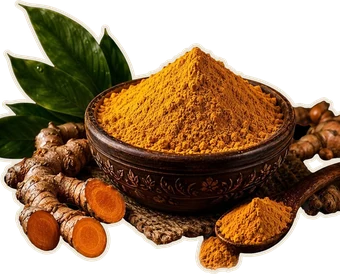
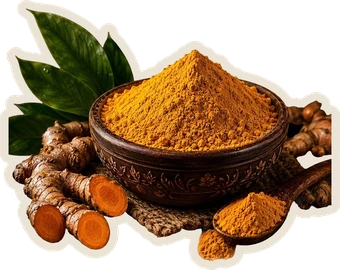
Thicker border wrapping all the way round the Events stickers

diff --git a/index.html b/index.html
@@ -646,7 +646,7 @@ picture{margin-block:clamp(52px,8vw,104px);}
 <p>Join us for an evening of drinks, dinner, and a warm welcome to Mexico City.</p>
 <p>The venue is approximately a 10-minute walk from Andaz. Transportation will be available for older guests.</p></div>
 </div>
-<picture class="stk stk-mendhi" aria-hidden="true"><source type="image/webp" srcset="img/sticker-mendhi-sm.webp 220w, img/sticker-mendhi.webp 340w" sizes="150px"><img src="img/sticker-mendhi.png" width="340" height="475" alt="" loading="lazy" decoding="async"></picture>
+<picture class="stk stk-mendhi" aria-hidden="true"><source type="image/webp" srcset="img/sticker-mendhi-sm.webp 220w, img/sticker-mendhi.webp 340w" sizes="150px"><img src="img/sticker-mendhi.png" width="340" height="469" alt="" loading="lazy" decoding="async"></picture>
 </article>
 <article class="leg" data-tab="Saturday Daytime">
 <div class="day"><b>2.20</b></div>
@@ -657,7 +657,7 @@ picture{margin-block:clamp(52px,8vw,104px);}
 <p>A daytime celebration with our families, including the Saatak ceremony, Haldi, food, and plenty of color.</p>
 <p>Transportation leaves Andaz at 9 AM and returns approximately 4 PM.</p></div>
 </div>
-<picture class="stk stk-haldi" aria-hidden="true"><source type="image/webp" srcset="img/sticker-haldi-sm.webp 220w, img/sticker-haldi.webp 340w" sizes="200px"><img src="img/sticker-haldi.png" width="340" height="274" alt="" loading="lazy" decoding="async"></picture>
+<picture class="stk stk-haldi" aria-hidden="true"><source type="image/webp" srcset="img/sticker-haldi-sm.webp 220w, img/sticker-haldi.webp 340w" sizes="200px"><img src="img/sticker-haldi.png" width="340" height="270" alt="" loading="lazy" decoding="async"></picture>
 </article>
 <article class="leg" data-tab="Sunday Daytime">
 <div class="day"><b>2.21</b></div>
